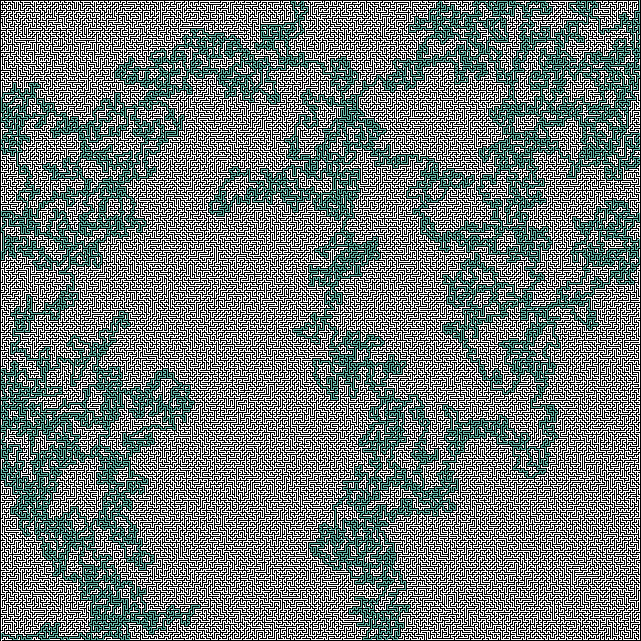
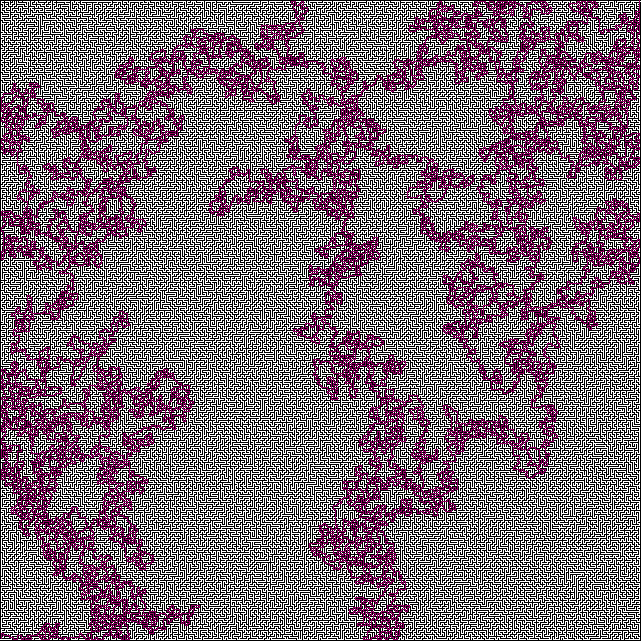
bugfix maze

diff --git a/python/maze/maze.py b/python/maze/maze.py
@@ -118,10 +118,7 @@ def draw_solution(link):
     #replicates the original maze            
     for i in range( img.size[0]):
         for j in range(img.size[1]):
-            if(img_arr[j][i][0] == 0):
-                pixels[i, j] = 0
-            else:
-                pixels[i, j] = (255,255,255)  
+            pixels[i, j] = img_arr[i][j]
     
     key = Point(639,0)
 
